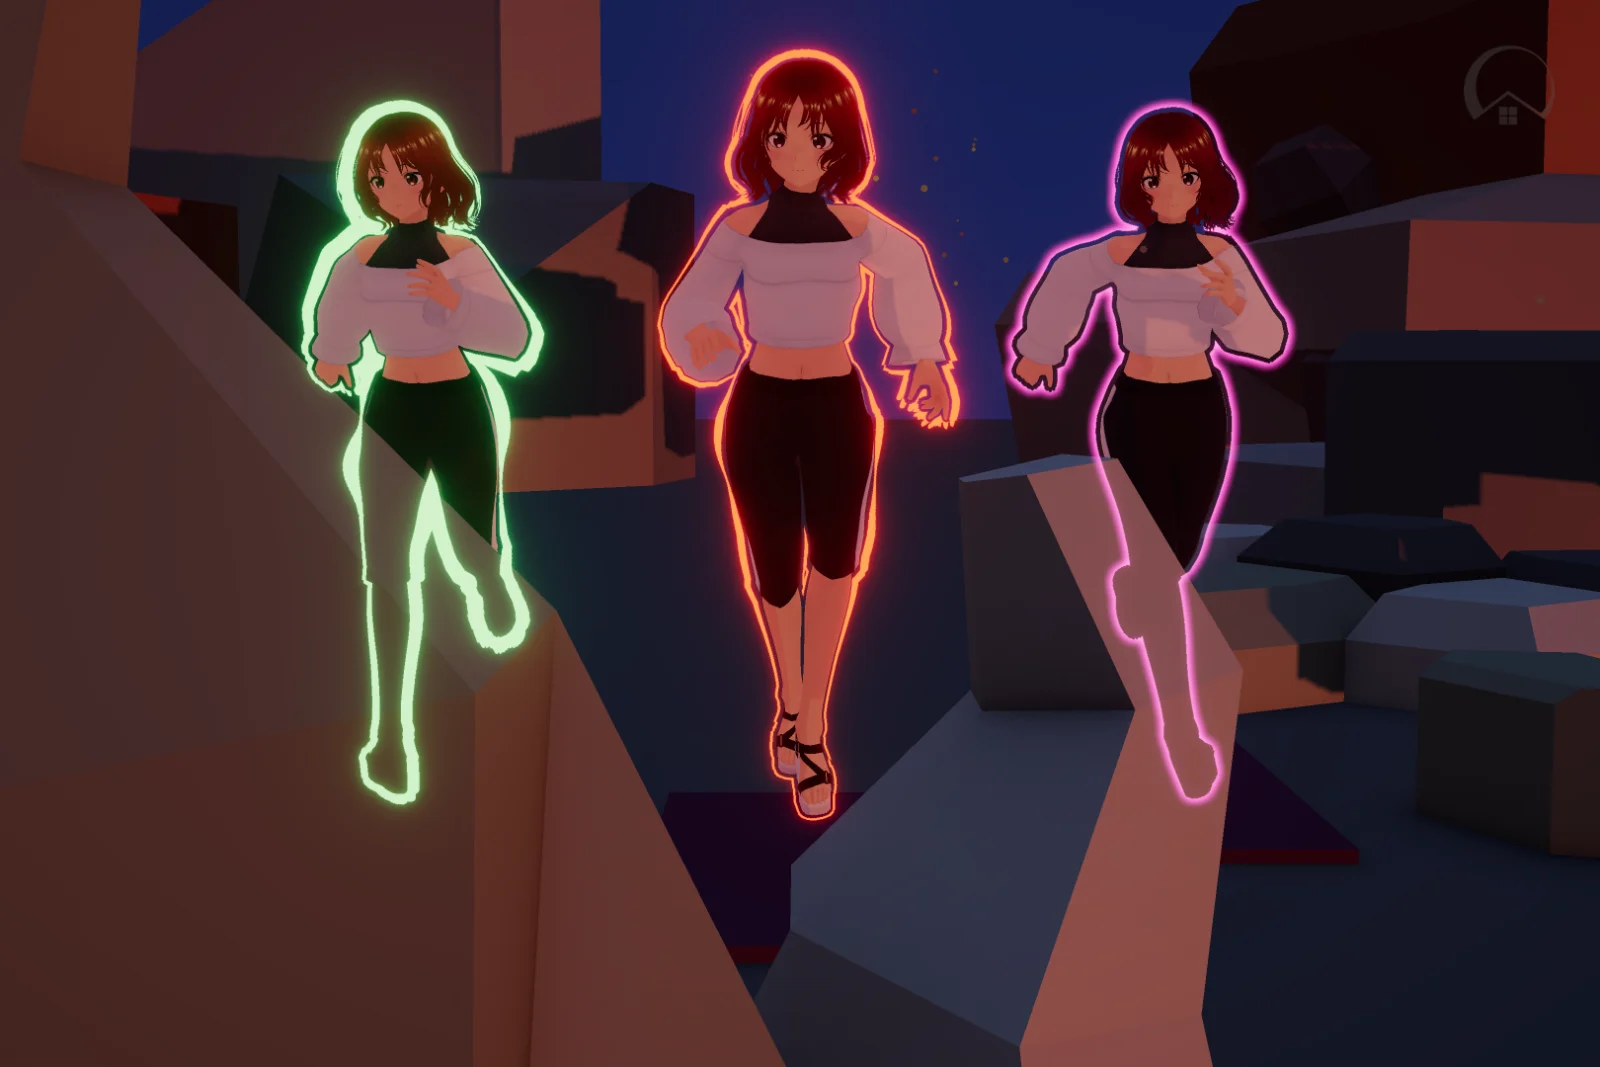
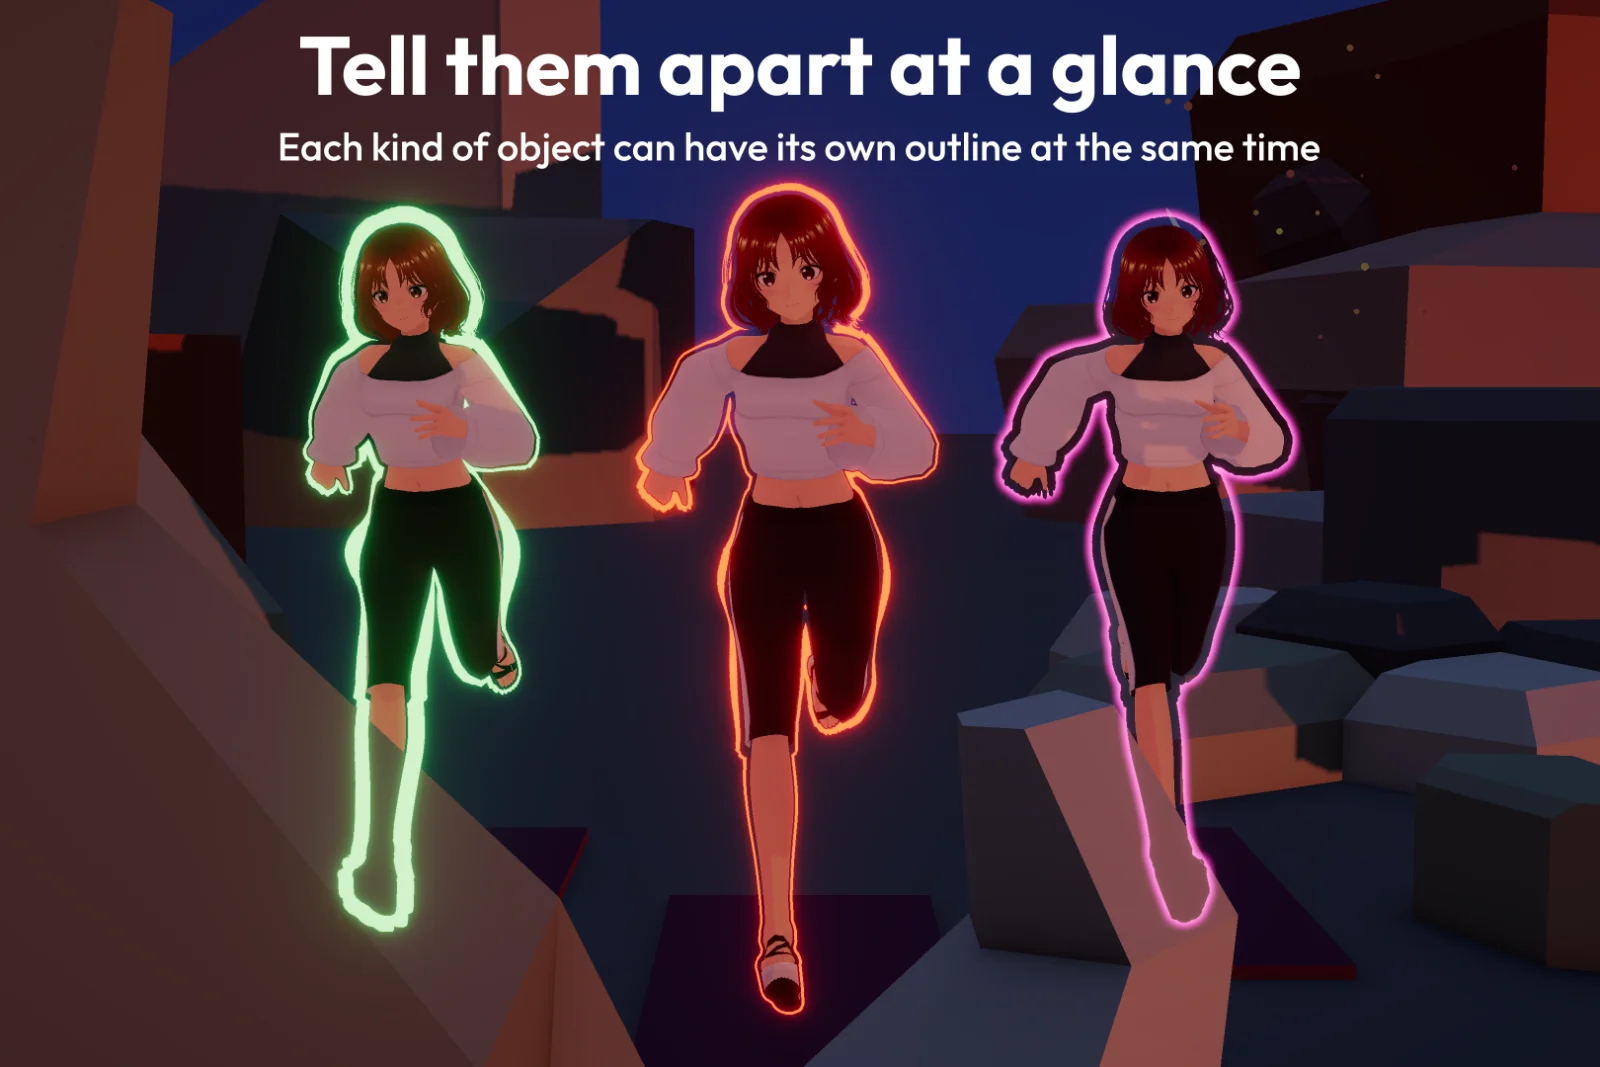
Swap in the captioned visibility and multi-look slides

diff --git a/tools/bordercraft-selection-outline-urp/index.html b/tools/bordercraft-selection-outline-urp/index.html
@@ -335,13 +335,13 @@
       </div>
 
       <div class="shot-card">
-        <img src="/assets/img/bordercraft/wherehidden.webp" width="1600" height="1067" loading="lazy" alt="A character half behind a rock: the covered half is outlined, the visible half is not.">
-        <div class="shot-caption"><strong>Show only when hidden</strong> — the covered part is outlined and the part in the clear is not, decided per pixel with no bookkeeping on your side.</div>
+        <img src="/assets/img/bordercraft/wherehidden.webp" width="1600" height="1067" loading="lazy" alt="The same character half behind a wall, shown three times: outlined through the wall, outlined only where visible, and outlined only where hidden.">
+        <div class="shot-caption"><strong>Three ways to handle walls</strong> — seen through them, occluded by them, or outlined only on the part they cover. Decided per pixel, with no bookkeeping on your side.</div>
       </div>
 
       <div class="shot-card">
-        <img src="/assets/img/bordercraft/channels.webp" width="1600" height="1067" loading="lazy" alt="Three characters outlined at once in green, red and pink.">
-        <div class="shot-caption"><strong>Several at once</strong> — different looks on screen together, each on its own channel, with no interference between them.</div>
+        <img src="/assets/img/bordercraft/channels.webp" width="1600" height="1067" loading="lazy" alt="Three characters outlined at the same time in green, orange and pink.">
+        <div class="shot-caption"><strong>Tell them apart at a glance</strong> — enemies, loot and allies can each have their own outline on screen at the same time.</div>
       </div>
 
       <div class="shot-card">
